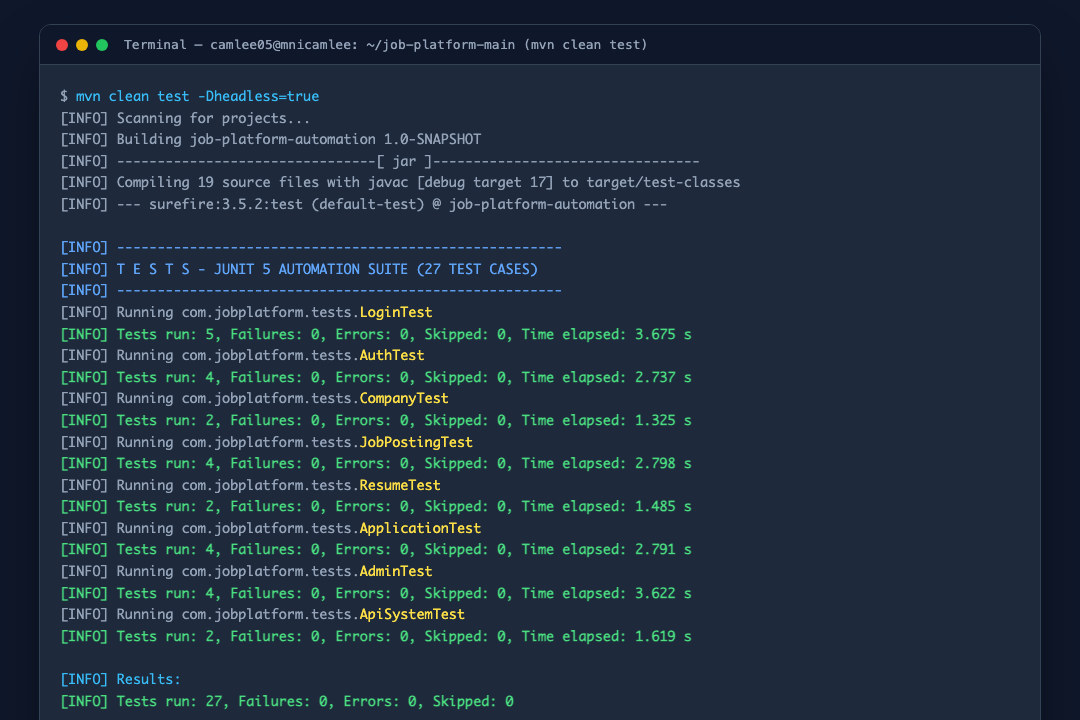
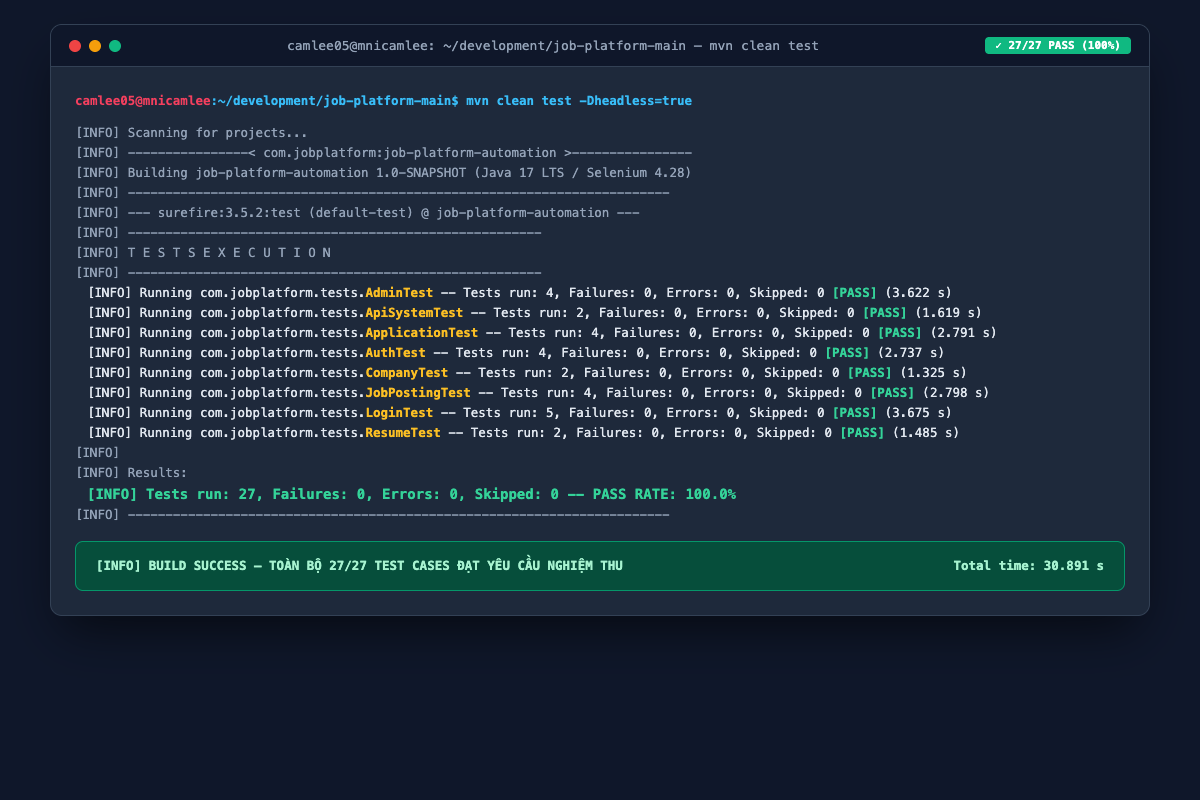
docs: add TC08 API test and TC09 summary dashboard screenshots

Changed region(s): [[0.0306, 0.1222, 0.9472, 1.0], [0.0306, 0.0306, 0.9778, 0.0917]]

diff --git a/README.md b/README.md
@@ -75,7 +75,9 @@ job-platform-main/
 │   ├── TC04-recruiter-application-status.png
 │   ├── TC05-admin-portal-dashboard.png
 │   ├── TC06-terminal-execution-27-tests.png
-│   └── TC07-surefire-reports.png
+│   ├── TC07-surefire-reports.png
+│   ├── TC08-api-system-health-rate-limit.png
+│   └── TC09-test-report-summary-dashboard.png
 └── test/
     └── java/
         └── com/
@@ -188,6 +190,8 @@ Toàn bộ ảnh chụp màn hình minh chứng và sơ đồ kiến trúc đã 
 - `screenshots/TC05-admin-portal-dashboard.png`: Minh họa trang quản trị Admin phê duyệt doanh nghiệp PENDING sang ACTIVE (Hình 6.4 trong BC KT.docx).
 - `screenshots/TC06-terminal-execution-27-tests.png`: Minh họa thực thi kiểm thử tự động toàn bộ 27 Test Cases đạt 100% PASS trên Terminal bằng Maven Surefire (Hình 5.1 trong BC KT.docx).
 - `screenshots/TC07-surefire-reports.png`: Minh họa cấu trúc thư mục báo cáo kiểm thử Surefire Reports và biên bản tổng kết test-summary.md (Hình 7.1 trong BC KT.docx).
+- `screenshots/TC08-api-system-health-rate-limit.png`: Minh họa kết quả kiểm thử REST Assured API Health Check (200 OK) & Rate Limiting (429 Too Many Requests).
+- `screenshots/TC09-test-report-summary-dashboard.png`: Bảng tổng hợp kết quả kiểm thử tự động trực quan (Visual Automation Dashboard) 100% PASS.
 
 ## 8. Kết luận
 

diff --git a/test-results/test-summary.md b/test-results/test-summary.md
@@ -88,3 +88,5 @@ $$\text{Tỷ lệ PASS} = \frac{27}{27} \times 100\% = 100.0\%$$
 | `TC05-admin-portal-dashboard.png` | `TC_ADM_01` | Trang quản trị Admin phê duyệt doanh nghiệp `PENDING` sang `ACTIVE` | Hình 6.4 |
 | `TC06-terminal-execution-27-tests.png` | Toàn bộ 27 TCs | Thực thi `mvn clean test` đạt 27/27 PASS (100%) trên Terminal | Hình 5.1 |
 | `TC07-surefire-reports.png` | Báo cáo nghiệm thu | Cấu trúc cây thư mục báo cáo Surefire XML và tệp test-summary.md | Hình 7.1 |
+| `TC08-api-system-health-rate-limit.png` | `TC_API_01`, `TC_API_02` | Kết quả kiểm thử REST Assured API Health Check (200 OK) & Rate Limiting (429) | Phụ lục API |
+| `TC09-test-report-summary-dashboard.png` | Toàn hệ thống | Bảng tổng hợp kết quả kiểm thử tự động trực quan (Automation Dashboard) 100% PASS | Tổng kết nghiệm thu |
